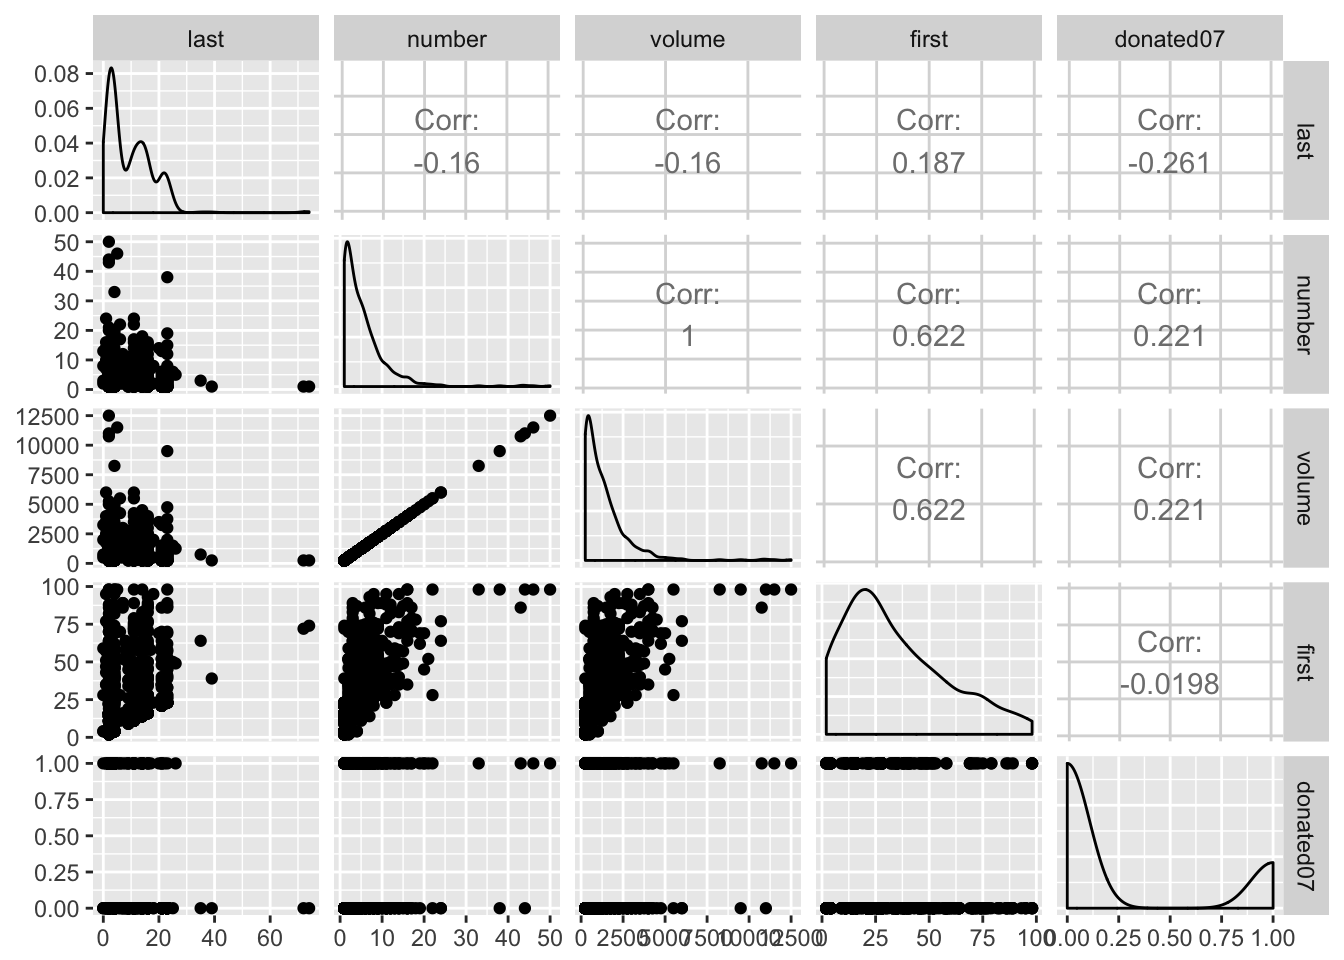
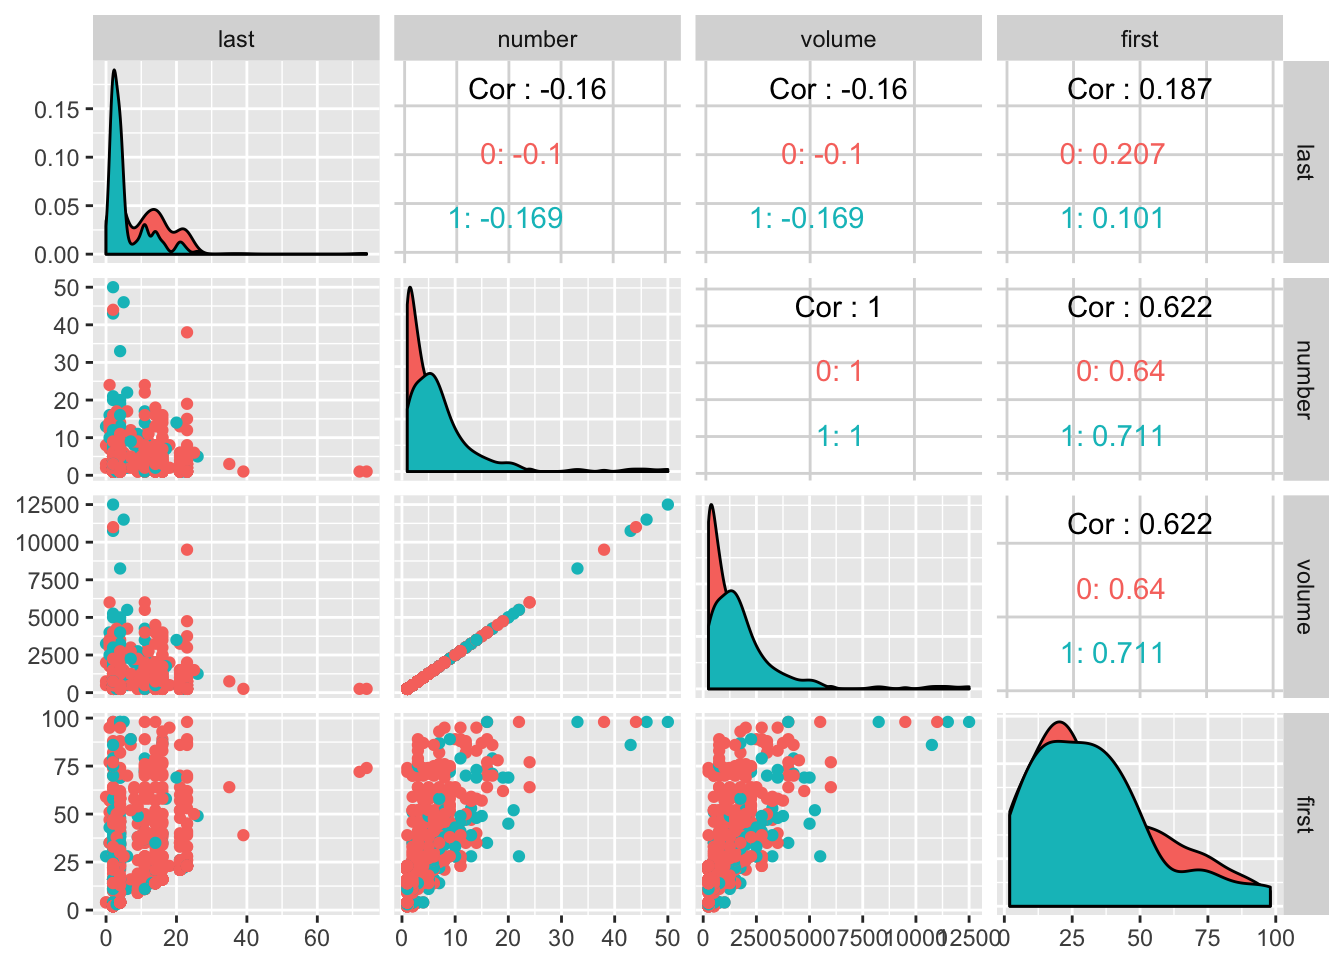
First build

diff --git a/post/predicting-blood-donations-part-1/index.html b/post/predicting-blood-donations-part-1/index.html
@@ -481,7 +481,7 @@ general, <code>read_csv</code> loads data faster and reads the data into a <code
 <p>Plot scatter matrix of covariates</p>
 <pre class="r"><code>X &lt;- training[1:(ncol(training)-1)]
 y &lt;- training[ncol(training)]
-ggpairs(training, progress = F) </code></pre>
+ggpairs(training, aes(colour=factor(donated07)), columns = 1:(ncol(training)-1), progress = F) </code></pre>
 <p><img src="/post/2018-06-21-predicting-blood-donations-part-1_files/figure-html/scatter_matrix-1.png" width="672" /></p>
 <p>Notice that <code>Number.of.Donations</code> and <code>Total.Volume.Donated..c.c..</code> are perfectly correlated. Which means that one of them needs to be dropped in any regression.</p>
 <pre class="r"><code>ggplot(training,aes(number, last, colour = factor(donated07))) + geom_point() + theme(legend.position = &quot;none&quot;)</code></pre>
